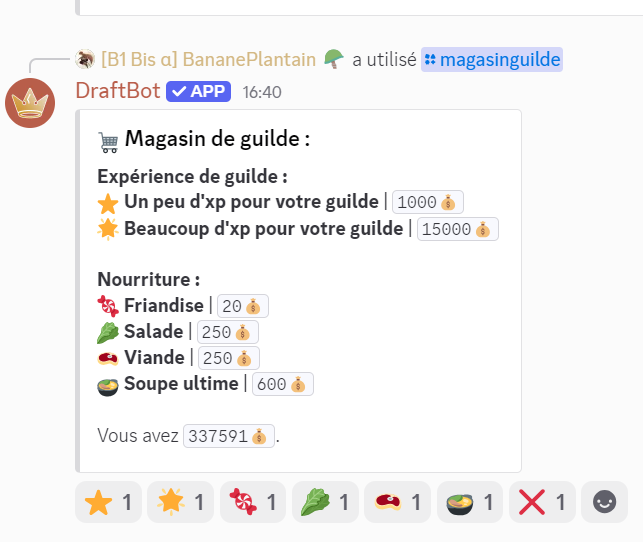
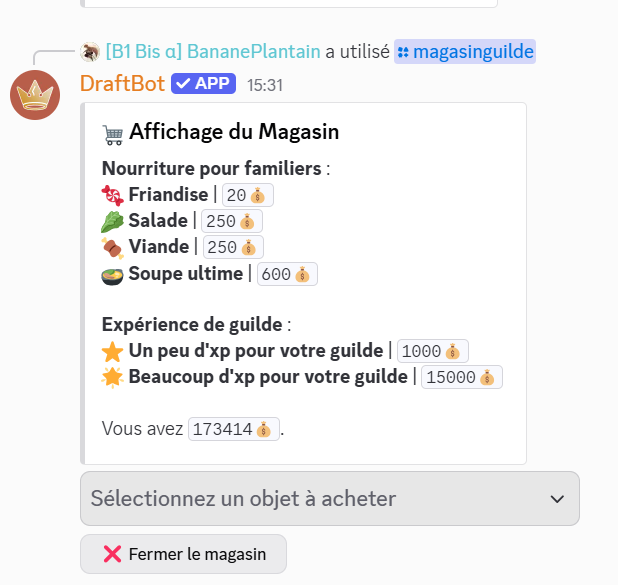
GITBOOK-657: screens + V5.1.0

diff --git a/notions-avancees/badges.md b/notions-avancees/badges.md
@@ -7,35 +7,36 @@ description: >-
 
 # Badges
 
-| Badge                 | Signification                                                                        | Précision                                                                                                                      | Attribution       |
-| --------------------- | ------------------------------------------------------------------------------------ | ------------------------------------------------------------------------------------------------------------------------------ | ----------------- |
-| :crown:               | Propriétaire du bot                                                                  | Indisponible                                                                                                                   | Drapht            |
-| :trophy:              | Meilleur joueur au moment du reset de la 1.0                                         | Indisponible                                                                                                                   | Indisponible      |
-| :medal:               | Joueur dans le top 10 au reset de la 1.0                                             | Indisponible                                                                                                                   | Indisponible      |
-| :helmet\_with\_cross: | Personne faisant partie des 20 premières personnes à avoir rejoint le serveur du bot | Indisponible                                                                                                                   | Indisponible      |
-| :bookmark:            | Adoptant de classe de la première heure                                              | Indisponible                                                                                                                   | Indisponible      |
-| :first\_place:        | Personne ayant la 1ère place au classement général                                   |                                                                                                                                | Gérant des badges |
-| :gear:                | Equipe Technique                                                                     | Badge attribué aux personnes s'étant beaucoup investies au développement du bot                                                | Gérant des badges |
-| :earth\_africa:       | Traducteur du bot                                                                    | Badge attribué aux personnes ayant participé à la traduction du jeu en anglais                                                 | Gérant des badges |
-| :pen\_fountain:       | Rédacteur du bot                                                                     | Badge attribué aux personnes ayant écrit ou co-écrit les événements présents dans le jeu                                       | Gérant des badges |
-| :lady\_beetle:        | Personne ayant signalé des bugs majeurs                                              | Badge attribué dans le cas où un membre de l'équipe de développement du jeu reconnaîtrait son signalement comme capital        | Gérant des badges |
-| :money\_with\_wings:  | Donateur                                                                             | Est obtenu après avoir fait un don                                                                                             | Gérant des badges |
-| :heart:               | Personne ayant le grade soutien sur le serveur du bot                                | Badge attribué aux personnes ayant atteint le niveau 20 de participation sur le serveur du bot                                 | Gérant des badges |
-| :star2:               | Personne ayant aidé à mettre le bot sur un serveur de plus de 2000 membres           |                                                                                                                                | Gérant des badges |
-| :christmas\_tree:     | Badge pouvant être gagné lors du concours de Noël                                    |                                                                                                                                | Gérant des badges |
-| :shamrock:            | Badge pouvant être gagné lors de concours                                            |                                                                                                                                | Gérant des badges |
-| :slot\_machine:       | Badge donné de manière totalement random                                             | Badge parfois attribué lors d'événements non-officiels sur le serveur du bot                                                   | Gérant des badges |
-| :joy:                 | Personne ayant posté un bon meme sur le serveur                                      | Badge attribué aux personnes ayant obtenus plus de 25:heart: sur le salon dédié aux memes du serveur du bot                    | Gérant des badges |
-| :money\_mouth:        | Badge pouvant être acheté dans le magasin classique                                  | Il s'achète pour 25 000 :moneybag:                                                                                             | Bot               |
-| :ring:                | Badge pouvant être acheté dans le magasin des missions                               | Il s'achète pour 150 :gem:                                                                                                     | Bot               |
-| :reminder\_ribbon:    | Personne ayant dominé un classement de la semaine                                    |                                                                                                                                | Bot               |
-| :ballot\_box:         | Voteur                                                                               | Badge attribué aux personnes ayant voté dans les 12 dernières heures                                                           | Bot               |
-| :gem:                 | Membre d'une guilde puissante                                                        | Badge pouvant être gagné par les membres d'une guilde niveau 50 ou plus                                                        |  Bot              |
-| 🪩                    | Membre d'une guilde très puissante                                                   | Badge pouvant être gagné par les membres d'une guilde niveau 100 ou plus se situant dans les 25 premières du classement guilde | Bot               |
-| :crossed\_swords:     | Vainqueur d'un tournoi                                                               |                                                                                                                                | Gérant des badges |
-| :revolving\_hearts:   | Joueur ayant dressé un familier légendaire                                           | S'obtient rarement lors d'un mini-événement si le joueur possède un familier 5 :star: dressé                                   | Bot               |
-| :sparkles:            | Personne ayant remporté le plus de gloire durant une saison de combat                |                                                                                                                                | Bot               |
-| :dove:                | Personne ayant rapporté un bug exploitable sans en profiter                          | Découvrir un bug exploitable et le signaler sur GitHub sans l'utiliser ni l'avoir développée                                   | Gérant des badges |
+| Badge                 | Signification                                                                        | Précision                                                                                                                                              | Attribution       |
+| --------------------- | ------------------------------------------------------------------------------------ | ------------------------------------------------------------------------------------------------------------------------------------------------------ | ----------------- |
+| :crown:               | Propriétaire du bot                                                                  | Indisponible                                                                                                                                           | Drapht            |
+| :trophy:              | Meilleur joueur au moment du reset de la 1.0                                         | Indisponible                                                                                                                                           | Indisponible      |
+| :medal:               | Joueur dans le top 10 au reset de la 1.0                                             | Indisponible                                                                                                                                           | Indisponible      |
+| :helmet\_with\_cross: | Personne faisant partie des 20 premières personnes à avoir rejoint le serveur du bot | Indisponible                                                                                                                                           | Indisponible      |
+| :bookmark:            | Adoptant de classe de la première heure                                              | Indisponible                                                                                                                                           | Indisponible      |
+| :first\_place:        | Personne ayant la 1ère place au classement général                                   |                                                                                                                                                        | Gérant des badges |
+| :gear:                | Equipe Technique                                                                     | Badge attribué aux personnes s'étant beaucoup investies au développement du bot                                                                        | Gérant des badges |
+| :earth\_africa:       | Traducteur du bot                                                                    | Badge attribué aux personnes ayant participé à la traduction du jeu en anglais                                                                         | Gérant des badges |
+| :pen\_fountain:       | Rédacteur du bot                                                                     | Badge attribué aux personnes ayant écrit ou co-écrit les événements présents dans le jeu                                                               | Gérant des badges |
+| :lady\_beetle:        | Personne ayant signalé des bugs majeurs                                              | Badge attribué dans le cas où un membre de l'équipe de développement du jeu reconnaîtrait son signalement comme capital                                | Gérant des badges |
+| :money\_with\_wings:  | Donateur                                                                             | Est obtenu après avoir fait un don                                                                                                                     | Gérant des badges |
+| :heart:               | Personne ayant le grade soutien sur le serveur du bot                                | Badge attribué aux personnes ayant atteint le niveau 20 de participation sur le serveur du bot                                                         | Gérant des badges |
+| :star2:               | Personne ayant aidé à mettre le bot sur un serveur de plus de 2000 membres           |                                                                                                                                                        | Gérant des badges |
+| :christmas\_tree:     | Badge pouvant être gagné lors du concours de Noël                                    |                                                                                                                                                        | Gérant des badges |
+| :shamrock:            | Badge pouvant être gagné lors de concours                                            |                                                                                                                                                        | Gérant des badges |
+| :slot\_machine:       | Badge donné de manière totalement random                                             | Badge parfois attribué lors d'événements non-officiels sur le serveur du bot                                                                           | Gérant des badges |
+| :joy:                 | Personne ayant posté un bon meme sur le serveur                                      | Badge attribué aux personnes ayant obtenus plus de 25:heart: sur le salon dédié aux memes du serveur du bot                                            | Gérant des badges |
+| :money\_mouth:        | Badge pouvant être acheté dans le magasin classique                                  | Il s'achète pour 25 000 :moneybag:                                                                                                                     | Bot               |
+| :ring:                | Badge pouvant être acheté dans le magasin des missions                               | Il s'achète pour 150 :gem:                                                                                                                             | Bot               |
+| :reminder\_ribbon:    | Personne ayant dominé un classement de la semaine                                    |                                                                                                                                                        | Bot               |
+| :ballot\_box:         | Voteur                                                                               | Badge attribué aux personnes ayant voté dans les 12 dernières heures                                                                                   | Bot               |
+| :gem:                 | Membre d'une guilde puissante                                                        | Badge pouvant être gagné par les membres d'une guilde niveau 50 ou plus                                                                                |  Bot              |
+| 🪩                    | Membre d'une guilde très puissante                                                   | Badge pouvant être gagné par les membres d'une guilde niveau 100 ou plus se situant dans les 25 premières du classement guilde                         | Bot               |
+| :crossed\_swords:     | Vainqueur d'un tournoi                                                               |                                                                                                                                                        | Gérant des badges |
+| :revolving\_hearts:   | Joueur ayant dressé un familier légendaire                                           | S'obtient rarement lors d'un mini-événement si le joueur possède un familier 5 :star: dressé                                                           | Bot               |
+| :sparkles:            | Personne ayant remporté le plus de gloire durant une saison de combat                |                                                                                                                                                        | Bot               |
+| :dove:                | Personne ayant rapporté un bug exploitable sans en profiter                          | Découvrir un bug exploitable et le signaler sur GitHub sans l'utiliser ni l'avoir développée                                                           | Gérant des badges |
+| :feet:                | Personne ayant montré tous les familiers à Talvar le nain                            | S'obtient lors de mini-événement du [nain fan des animaux ](mini-evenements.md#le-nain-fan-des-animaux)après lui avoir montré tout les animaux du jeu. | Bot               |
 
 {% hint style="info" %}
 Lorsque vous cliquez en jeu sur un badge, sa description s'affichera (à condition que la commande /profil est récente).

diff --git a/notions-avancees/mini-evenements.md b/notions-avancees/mini-evenements.md
@@ -1,6 +1,6 @@
-# Mini-évènements
+# Mini-évènements sur le continent principal
 
-Il existe actuellement 28 types de mini-évènement différents dans le bot. Voici quelques informations au sujet des mini-évènements qui vous permettront d'aborder cette fonctionnalité de manière plus stratégique.
+Il existe actuellement 29 types de mini-évènement différents dans le bot. Voici quelques informations au sujet des mini-évènements qui vous permettront d'aborder cette fonctionnalité de manière plus stratégique.
 
 Plus la valeur de la rareté d'un mini-évènement est élevée, plus celui-ci est fréquent.
 
@@ -518,3 +518,23 @@ Ce mini-événement vous fera rencontrer un individu mystérieux qui vous propos
 * Sinon le voyage est juste moins cher.
 
 <figure><img src="../.gitbook/assets/Capture d&#x27;écran 2024-02-28 195354.png" alt=""><figcaption><p>Exemple d'un voyage rapide</p></figcaption></figure>
+
+## Le nain fan des animaux
+
+**Rareté: 5**
+
+Ce mini-événement vous fera rencontrer Talvar, un nain amoureux de la cause animale. Il vous récompensera avec une gemme à chaque nouvelle espèce que vous lui présenterait  si votre animal n'est pas fielleux (sinon il vous réprimandera vertement ) . Une fois toutes les espèces répertoriés, vous gagnerez en signe de profond respect le [badge](badges.md) :feet:(et de l'argent si vous l'avez déjà) .
+
+<figure><picture><source srcset="../.gitbook/assets/talvar_sombre.png" media="(prefers-color-scheme: dark)"><img src="../.gitbook/assets/talvar_clair.png" alt=""></picture><figcaption><p>On raconte que son amour des animaux est aussi immense que sa richesse.</p></figcaption></figure>
+
+{% hint style="info" %}
+Ce mini-événement n'apparaît qu'autour du Mont Célestrum.
+{% endhint %}
+
+## Informations sur les combats
+
+**Rareté : 3**&#x20;
+
+Ce mini-événement  vous fera rencontrer Sir Rowan, ancien capitaine de la garde royale.Il vous présentera les différentes attaques du jeu qu'elles soient humaines ou monstrueuses.
+
+<figure><picture><source srcset="../.gitbook/assets/rowan_sombre.png" media="(prefers-color-scheme: dark)"><img src="../.gitbook/assets/rowan_clair.png" alt=""></picture><figcaption></figcaption></figure>

diff --git a/notions-principale/report.md b/notions-principale/report.md
@@ -11,13 +11,13 @@ La commande `/rapport` possède 4 états différents :
 * Le joueur réalise un évènement.
 * Le joueur réalise un mini-évènement.
 
-![Interface de la commande report quand le joueur est en train de voyager](../.gitbook/assets/RapportPrésentation.png)
+<picture><source srcset="../.gitbook/assets/trajetencours_sombre.png" media="(prefers-color-scheme: dark)"><img src="../.gitbook/assets/trajetencours (1).png" alt="Interface de la commande report quand le joueur est en train de voyager"></picture>
 
 ### Mini-Évènements :
 
 Le joueur met environ 9 minutes et 45 secondes à réaliser un trajet entre deux mini-évènements.
 
-![Un exemple de mini-évènement](../.gitbook/assets/RapportMiniEvent.png)
+<picture><source srcset="../.gitbook/assets/SE_sombre.png" media="(prefers-color-scheme: dark)"><img src="../.gitbook/assets/RapportMiniEvent.png" alt="Un exemple de mini-évènement"></picture>
 
 Un mini-évènement est souvent une simple phrase. Il existe cependant des mini-évènements qui peuvent vous faire gagner des objets, de la vie ou encore de l'argent.
 
@@ -25,7 +25,7 @@ Un mini-évènement est souvent une simple phrase. Il existe cependant des mini-
 Chaque mini-évènement rapporte au joueur une quantité de points diminuant à chaque nouveau mini-évènement. Ces points sont ajoutés au nombre de points remportés lors de l'évènement suivant.
 {% endhint %}
 
-![Une fois le mini-évènement passé, il apparaît sur l'interface de voyage](../.gitbook/assets/RapportTemps.png)
+<picture><source srcset="../.gitbook/assets/SE_sombre.png" media="(prefers-color-scheme: dark)"><img src="../.gitbook/assets/RapportTemps.png" alt="Une fois le mini-évènement passé, il apparaît sur l&#x27;interface de voyage"></picture>
 
 Vous pouvez voir le nombre de points récoltés avec les mini-évènements ainsi que le temps d'attente avant le prochain.
 

diff --git a/notions-principale/missions.md b/notions-principale/missions.md
@@ -14,7 +14,7 @@ Il existe trois catégories de mission :
 * Les missions quotidiennes : comme leur nom l'indique, celles-ci changent chaque jour et permettent au joueur de gagner des récompenses autrement que par les quêtes de campagne.
 * Les missions secondaires sont un autre moyen d'obtenir des récompenses et peuvent se trouver occasionnellement dans des [mini-évènements](https://guide.draftbot.com/notions-avancees/mini-evenements#trouver-une-mission).
 
-![Affichage de la commande /missions](../.gitbook/assets/missions.png)
+<picture><source srcset="../.gitbook/assets/missions_sombre.png" media="(prefers-color-scheme: dark)"><img src="../.gitbook/assets/missions.png" alt="Affichage de la commande /missions"></picture>
 
 Les missions secondaires s'obtiennent avec un [mini-évènement](report.md#mini-evenements) précis, ressemblant à cela :
 
@@ -43,7 +43,7 @@ Celui-ci se divise en 3 catégories :
 {% endtab %}
 {% endtabs %}
 
-<figure><img src="../.gitbook/assets/image (1) (1).png" alt=""><figcaption><p>Affiche du magasin de missions</p></figcaption></figure>
+<figure><picture><source srcset="../.gitbook/assets/magasinmission_sombre.png" media="(prefers-color-scheme: dark)"><img src="../.gitbook/assets/magasinmission_clair.png" alt=""></picture><figcaption><p>Affiche du magasin de missions</p></figcaption></figure>
 
 {% hint style="info" %}
 Les gemmes peuvent être dépenser autrement ! Elles peuvent vous permettre de payer un trajet en bâteau pour rejoindre l'ile [pve.md](../notions-avancees/pve.md "mention").

diff --git a/notions-avancees/inventory.md b/notions-avancees/inventory.md
@@ -10,7 +10,7 @@ Vous avez également la possibilité d'afficher l'inventaire d'un autre joueur. 
 
 
 
-![Un exemple d'inventaire d'un joueur](<../.gitbook/assets/image (68).png>)
+<picture><source srcset="../.gitbook/assets/inventaire_sombre.png" media="(prefers-color-scheme: dark)"><img src="../.gitbook/assets/inventaire_clair.png" alt="Un exemple d&#x27;inventaire d&#x27;un joueur"></picture>
 
 L'inventaire se décompose en deux parties distinctes, la première est dédiée aux objets équipés par le joueur, la seconde, quant à elle, est une réserve permettant de stocker un ou plusieurs équipements supplémentaires.
 
@@ -23,7 +23,7 @@ La première partie de l'inventaire est partagée en **4 éléments** :
 
 La seconde partie de l'inventaire sert à **stocker des équipements supplémentaires** que vous pourrez échanger avec vos équipements actifs en fonction de vos besoins.
 
-<figure><img src="../.gitbook/assets/réserve_clair.png" alt=""><figcaption><p>Un exemple de réserve d'inventaire</p></figcaption></figure>
+<figure><picture><source srcset="../.gitbook/assets/réserve_sombre.png" media="(prefers-color-scheme: dark)"><img src="../.gitbook/assets/réserve_clair.png" alt=""></picture><figcaption><p>Un exemple de réserve d'inventaire</p></figcaption></figure>
 
 {% hint style="info" %}
 La réserve du joueur peut être améliorée dans le magasin. Différents emplacements supplémentaires sont achetables:

diff --git a/notions-principale/familiers.md b/notions-principale/familiers.md
@@ -52,7 +52,7 @@ Un familier a 2 fonctions:
 
 L'achat de nourriture pour les familiers se fait dans le magasin de votre guilde. Si vous n'avez pas de guilde, vous n'aurez accès qu'à la forme la plus basique de nourriture, c'est-à-dire la friandise, pour votre animal.
 
-![Le magasin de guilde permet d'acheter différentes sortes de nourritures](../.gitbook/assets/magasinguilde_clair.png)
+<picture><source srcset="../.gitbook/assets/magasinguilde_sombre.png" media="(prefers-color-scheme: dark)"><img src="../.gitbook/assets/magasinguilde_clair.png" alt="Le magasin de guilde permet d&#x27;acheter différentes sortes de nourritures"></picture>
 
 {% hint style="info" %}
 Il est aussi possible que votre familier trouve de la nourriture pendant l'aventure.
@@ -62,7 +62,7 @@ Il est aussi possible que votre familier trouve de la nourriture pendant l'avent
 
 La nourriture va permettre d'influer sur le moral de votre animal. Pour nourrir votre familier, vous devez utiliser la commande `/nourrirfamilier`.
 
-![La commande /nourrirfamilier](../.gitbook/assets/nourrirfamilier_clair.png)
+<picture><source srcset="../.gitbook/assets/nourrirfamilier_sombre (1).png" media="(prefers-color-scheme: dark)"><img src="../.gitbook/assets/nourrirfamilier_clair.png" alt="La commande /nourrirfamilier"></picture>
 
 Chaque type de nourriture fera gagner une quantité différente de points d'affection à votre familier.
 

diff --git a/notions-principale/classes.md b/notions-principale/classes.md
@@ -31,12 +31,10 @@ Pour changer de classe, et à condition que votre personnage soit au moins nivea
 <figure><img src="../.gitbook/assets/tier5.png" alt=""><figcaption><p>Classes de palier 5 (qui sont des améliorations de celles de palier 4, à l'exception du mage)</p></figcaption></figure>
 
 {% hint style="danger" %}
-Afin d'éviter de nombreux changements de classe, un délai minimum est imposé entre deux changements:
+Afin d'éviter de nombreux changements de classe, un délai minimum est imposé entre deux changements :
 
-* Palier 1: 1 jour
-* Palier 2: 1 semaine
-* Palier 3: 3 semaines
-* Paliers 4 et 5: 4 semaines.
+* Paliers 1 et 2 : 2 semaines
+* Paliers 3, 4 et 5 : 4 semaines.
 {% endhint %}
 
 ### Statistiques des classes
@@ -45,4 +43,4 @@ Une commande a été ajoutée depuis la version [2.1.1](https://history.draftbot
 
 Il s'agit de la commande `/infosclasses`.
 
-<figure><img src="../.gitbook/assets/comparatif classes.PNG" alt=""><figcaption><p>Statistiques des classes</p></figcaption></figure>
+<figure><picture><source srcset="../.gitbook/assets/infosclasse_sombre.png" media="(prefers-color-scheme: dark)"><img src="../.gitbook/assets/infosclasse_clair.png" alt=""></picture><figcaption><p>Statistiques des classes</p></figcaption></figure>

diff --git a/notions-principale/items.md b/notions-principale/items.md
@@ -24,7 +24,7 @@ La valeur des équipements est calculée principalement en fonction de leur rare
 
 Il en va de même pour leur puissance. Cependant, la puissance d'un équipement peut être limitée par la puissance d'un joueur. Par exemple, un joueur ayant très peu d'attaque ne sera pas en capacité de profiter de toutes les capacités d'une arme très puissante. Cette limitation sera affichée pour le joueur dans son inventaire.&#x20;
 
-![Ce joueur ne dispose pas de suffisamment d'attaque pour utiliser la pleine puissance de son arme.](<../.gitbook/assets/image (67).png>)
+<picture><source srcset="../.gitbook/assets/inventaire_sombre.png" media="(prefers-color-scheme: dark)"><img src="../.gitbook/assets/inventaire_clair.png" alt="Ce joueur ne dispose pas de suffisamment d&#x27;attaque pour utiliser la pleine puissance de son arme."></picture>
 
 ## Liste des équipements
 

diff --git a/SUMMARY.md b/SUMMARY.md
@@ -28,7 +28,7 @@
 * [Monter dans les classements](notions-avancees/monter-dans-les-classements.md)
 * [Gestion de l'inventaire](notions-avancees/inventory.md)
 * [PVE](notions-avancees/pve.md)
-* [Mini-évènements](notions-avancees/mini-evenements.md)
+* [Mini-évènements sur le continent principal](notions-avancees/mini-evenements.md)
 * [Badges](notions-avancees/badges.md)
 
 ## Lore et histoire du bot <a href="#lore" id="lore"></a>

diff --git a/.gitbook/includes/tableau-attaques-boss.md b/.gitbook/includes/tableau-attaques-boss.md
@@ -1,0 +1,4 @@
+---
+title: tableau attaques boss
+---
+
